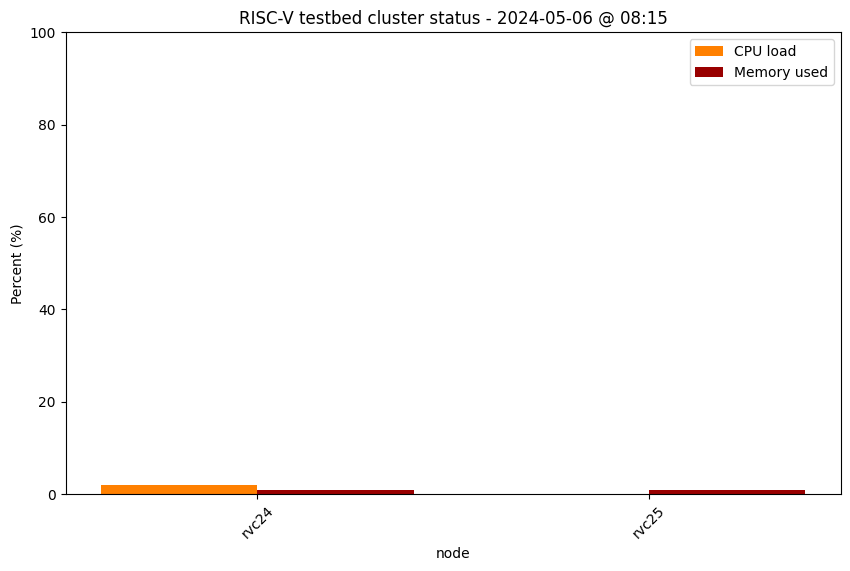
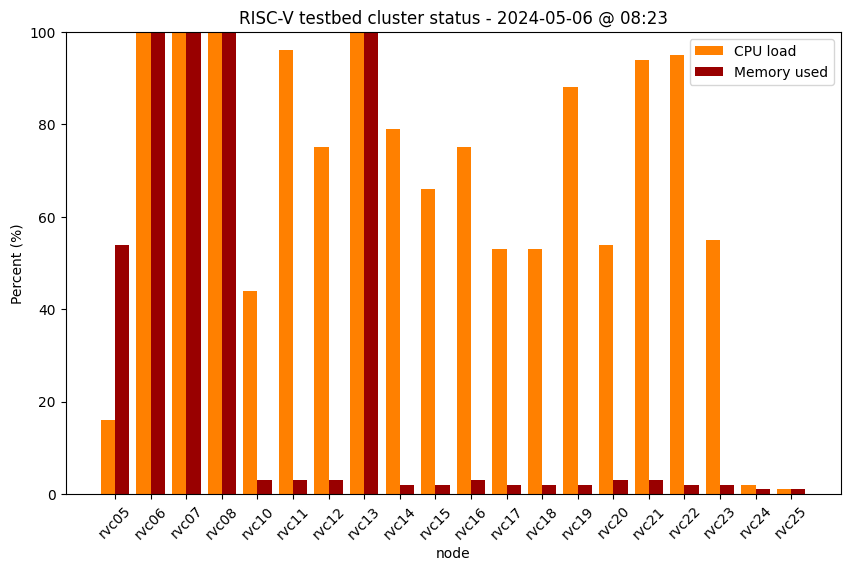
Update cluster status

Changed region(s): [[0.0918, 0.0595, 0.9482, 0.8634], [0.1224, 0.8932, 0.9482, 0.9527], [0.7647, 0.0, 0.7953, 0.0298]]

diff --git a/status.md b/status.md
@@ -17,25 +17,25 @@ permalink: /status/
 | DongshanNezhaSTU #2 | rvc02 | 1 | 512MB | <img src="/images/amber.png" alt="amber light" width="10"/> offline |
 | DongshanNezhaSTU #3 | rvc03 | 1 | 512MB | <img src="/images/amber.png" alt="amber light" width="10"/> offline |
 | DongshanNezhaSTU #4 | rvc04 | 1 | 512MB | <img src="/images/amber.png" alt="amber light" width="10"/> offline |
-| MangoPi MQ-Pro #1 | rvc05 | 1 | 1GB | <img src="/images/off.png" alt="red light" width="10"/> down |
-| MangoPi MQ-Pro #2 | rvc06 | 1 | 1GB | <img src="/images/off.png" alt="red light" width="10"/> down |
-| StarFive VisionFive V1 #1 | rvc07 | 2 | 8GB | <img src="/images/off.png" alt="red light" width="10"/> down |
-| StarFive VisionFive V1 #2 | rvc08 | 2 | 8GB | <img src="/images/off.png" alt="red light" width="10"/> down |
+| MangoPi MQ-Pro #1 | rvc05 | 1 | 1GB | <img src="/images/on.png" alt="green light" width="10"/> up |
+| MangoPi MQ-Pro #2 | rvc06 | 1 | 1GB | <img src="/images/on.png" alt="green light" width="10"/> up |
+| StarFive VisionFive V1 #1 | rvc07 | 2 | 8GB | <img src="/images/on.png" alt="green light" width="10"/> up |
+| StarFive VisionFive V1 #2 | rvc08 | 2 | 8GB | <img src="/images/on.png" alt="green light" width="10"/> up |
 | StarFive VisionFive V1 #3 | rvc09 | 2 | 8GB | <img src="/images/amber.png" alt="amber light" width="10"/> offline |
-| HiFive Unmatched  | rvc10 | 4 | 16GB | <img src="/images/off.png" alt="red light" width="10"/> down |
-| StarFive VisionFive V2 #1 | rvc11 | 4 | 8GB | <img src="/images/off.png" alt="red light" width="10"/> down |
-| StarFive VisionFive V2 #2 | rvc12 | 4 | 8GB | <img src="/images/off.png" alt="red light" width="10"/> down |
-| StarFive VisionFive V2 #3 | rvc13 | 4 | 8GB | <img src="/images/off.png" alt="red light" width="10"/> down |
-| StarFive VisionFive V2 #4 | rvc14| 4 | 8GB | <img src="/images/off.png" alt="red light" width="10"/> down |
-| StarFive VisionFive V2 #5 | rvc15 | 4 | 8GB | <img src="/images/off.png" alt="red light" width="10"/> down |
-| StarFive VisionFive V2 #6 | rvc16 | 4 | 8GB | <img src="/images/off.png" alt="red light" width="10"/> down |
-| StarFive VisionFive V2 #7 | rvc17 | 4 | 8GB | <img src="/images/off.png" alt="red light" width="10"/> down |
-| StarFive VisionFive V2 #8 | rvc18 | 4 | 8GB | <img src="/images/off.png" alt="red light" width="10"/> down |
-| StarFive VisionFive V2 #9 | rvc19 | 4 | 8GB | <img src="/images/off.png" alt="red light" width="10"/> down |
-| StarFive VisionFive V2 #10 | rvc20 | 4 | 8GB | <img src="/images/off.png" alt="red light" width="10"/> down | 
-| StarFive VisionFive V2 #11 | rvc21 | 4 | 8GB | <img src="/images/off.png" alt="red light" width="10"/> down |
-| StarFive VisionFive V2 #12 | rvc22 | 4 | 8GB | <img src="/images/off.png" alt="red light" width="10"/> down |
-| StarFive VisionFive V2 #13 | rvc23 | 4 | 8GB | <img src="/images/off.png" alt="red light" width="10"/> down |
+| HiFive Unmatched  | rvc10 | 4 | 16GB | <img src="/images/on.png" alt="green light" width="10"/> up |
+| StarFive VisionFive V2 #1 | rvc11 | 4 | 8GB | <img src="/images/on.png" alt="green light" width="10"/> up |
+| StarFive VisionFive V2 #2 | rvc12 | 4 | 8GB | <img src="/images/on.png" alt="green light" width="10"/> up |
+| StarFive VisionFive V2 #3 | rvc13 | 4 | 8GB | <img src="/images/on.png" alt="green light" width="10"/> up |
+| StarFive VisionFive V2 #4 | rvc14| 4 | 8GB | <img src="/images/on.png" alt="green light" width="10"/> up |
+| StarFive VisionFive V2 #5 | rvc15 | 4 | 8GB | <img src="/images/on.png" alt="green light" width="10"/> up |
+| StarFive VisionFive V2 #6 | rvc16 | 4 | 8GB | <img src="/images/on.png" alt="green light" width="10"/> up |
+| StarFive VisionFive V2 #7 | rvc17 | 4 | 8GB | <img src="/images/on.png" alt="green light" width="10"/> up |
+| StarFive VisionFive V2 #8 | rvc18 | 4 | 8GB | <img src="/images/on.png" alt="green light" width="10"/> up |
+| StarFive VisionFive V2 #9 | rvc19 | 4 | 8GB | <img src="/images/on.png" alt="green light" width="10"/> up |
+| StarFive VisionFive V2 #10 | rvc20 | 4 | 8GB | <img src="/images/on.png" alt="green light" width="10"/> up | 
+| StarFive VisionFive V2 #11 | rvc21 | 4 | 8GB | <img src="/images/on.png" alt="green light" width="10"/> up |
+| StarFive VisionFive V2 #12 | rvc22 | 4 | 8GB | <img src="/images/on.png" alt="green light" width="10"/> up |
+| StarFive VisionFive V2 #13 | rvc23 | 4 | 8GB | <img src="/images/on.png" alt="green light" width="10"/> up |
 | Milk-V Pioneer #1 | rvc24 | 64 | 128GB | <img src="/images/on.png" alt="green light" width="10"/> up |
 | Milk-V Pioneer #2 | rvc25 | 64 | 128GB | <img src="/images/on.png" alt="green light" width="10"/> up |
 
